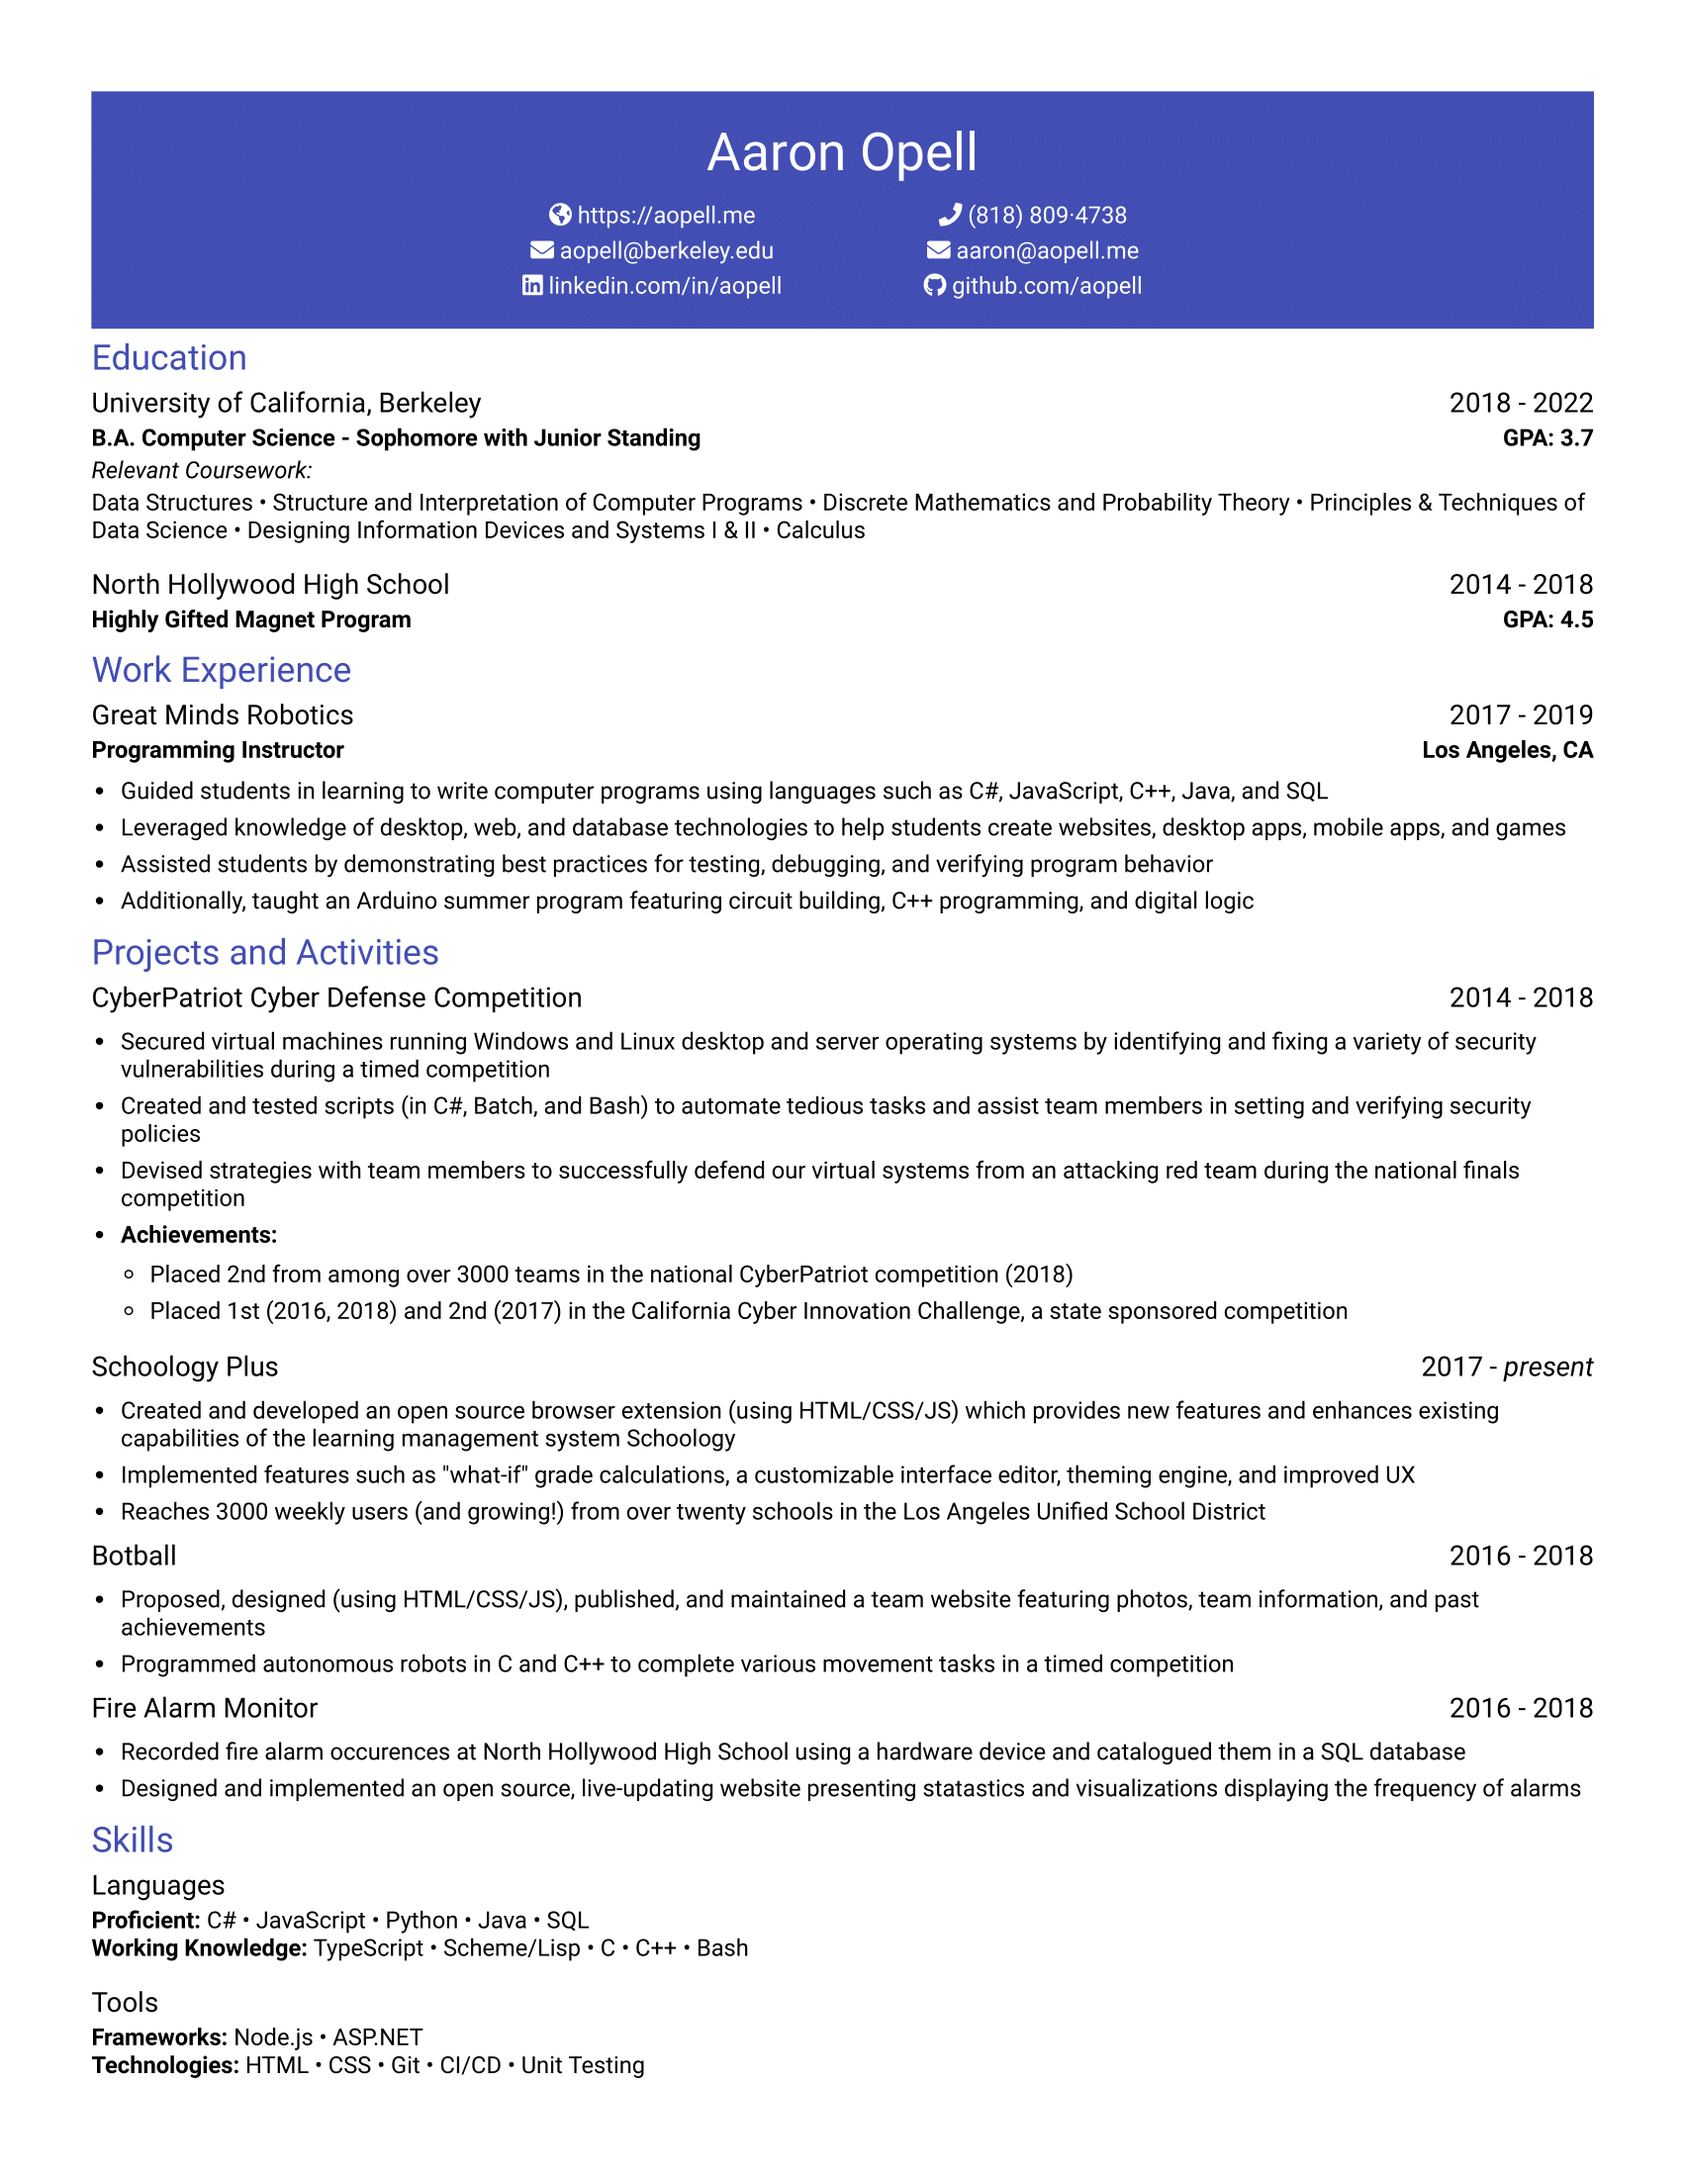
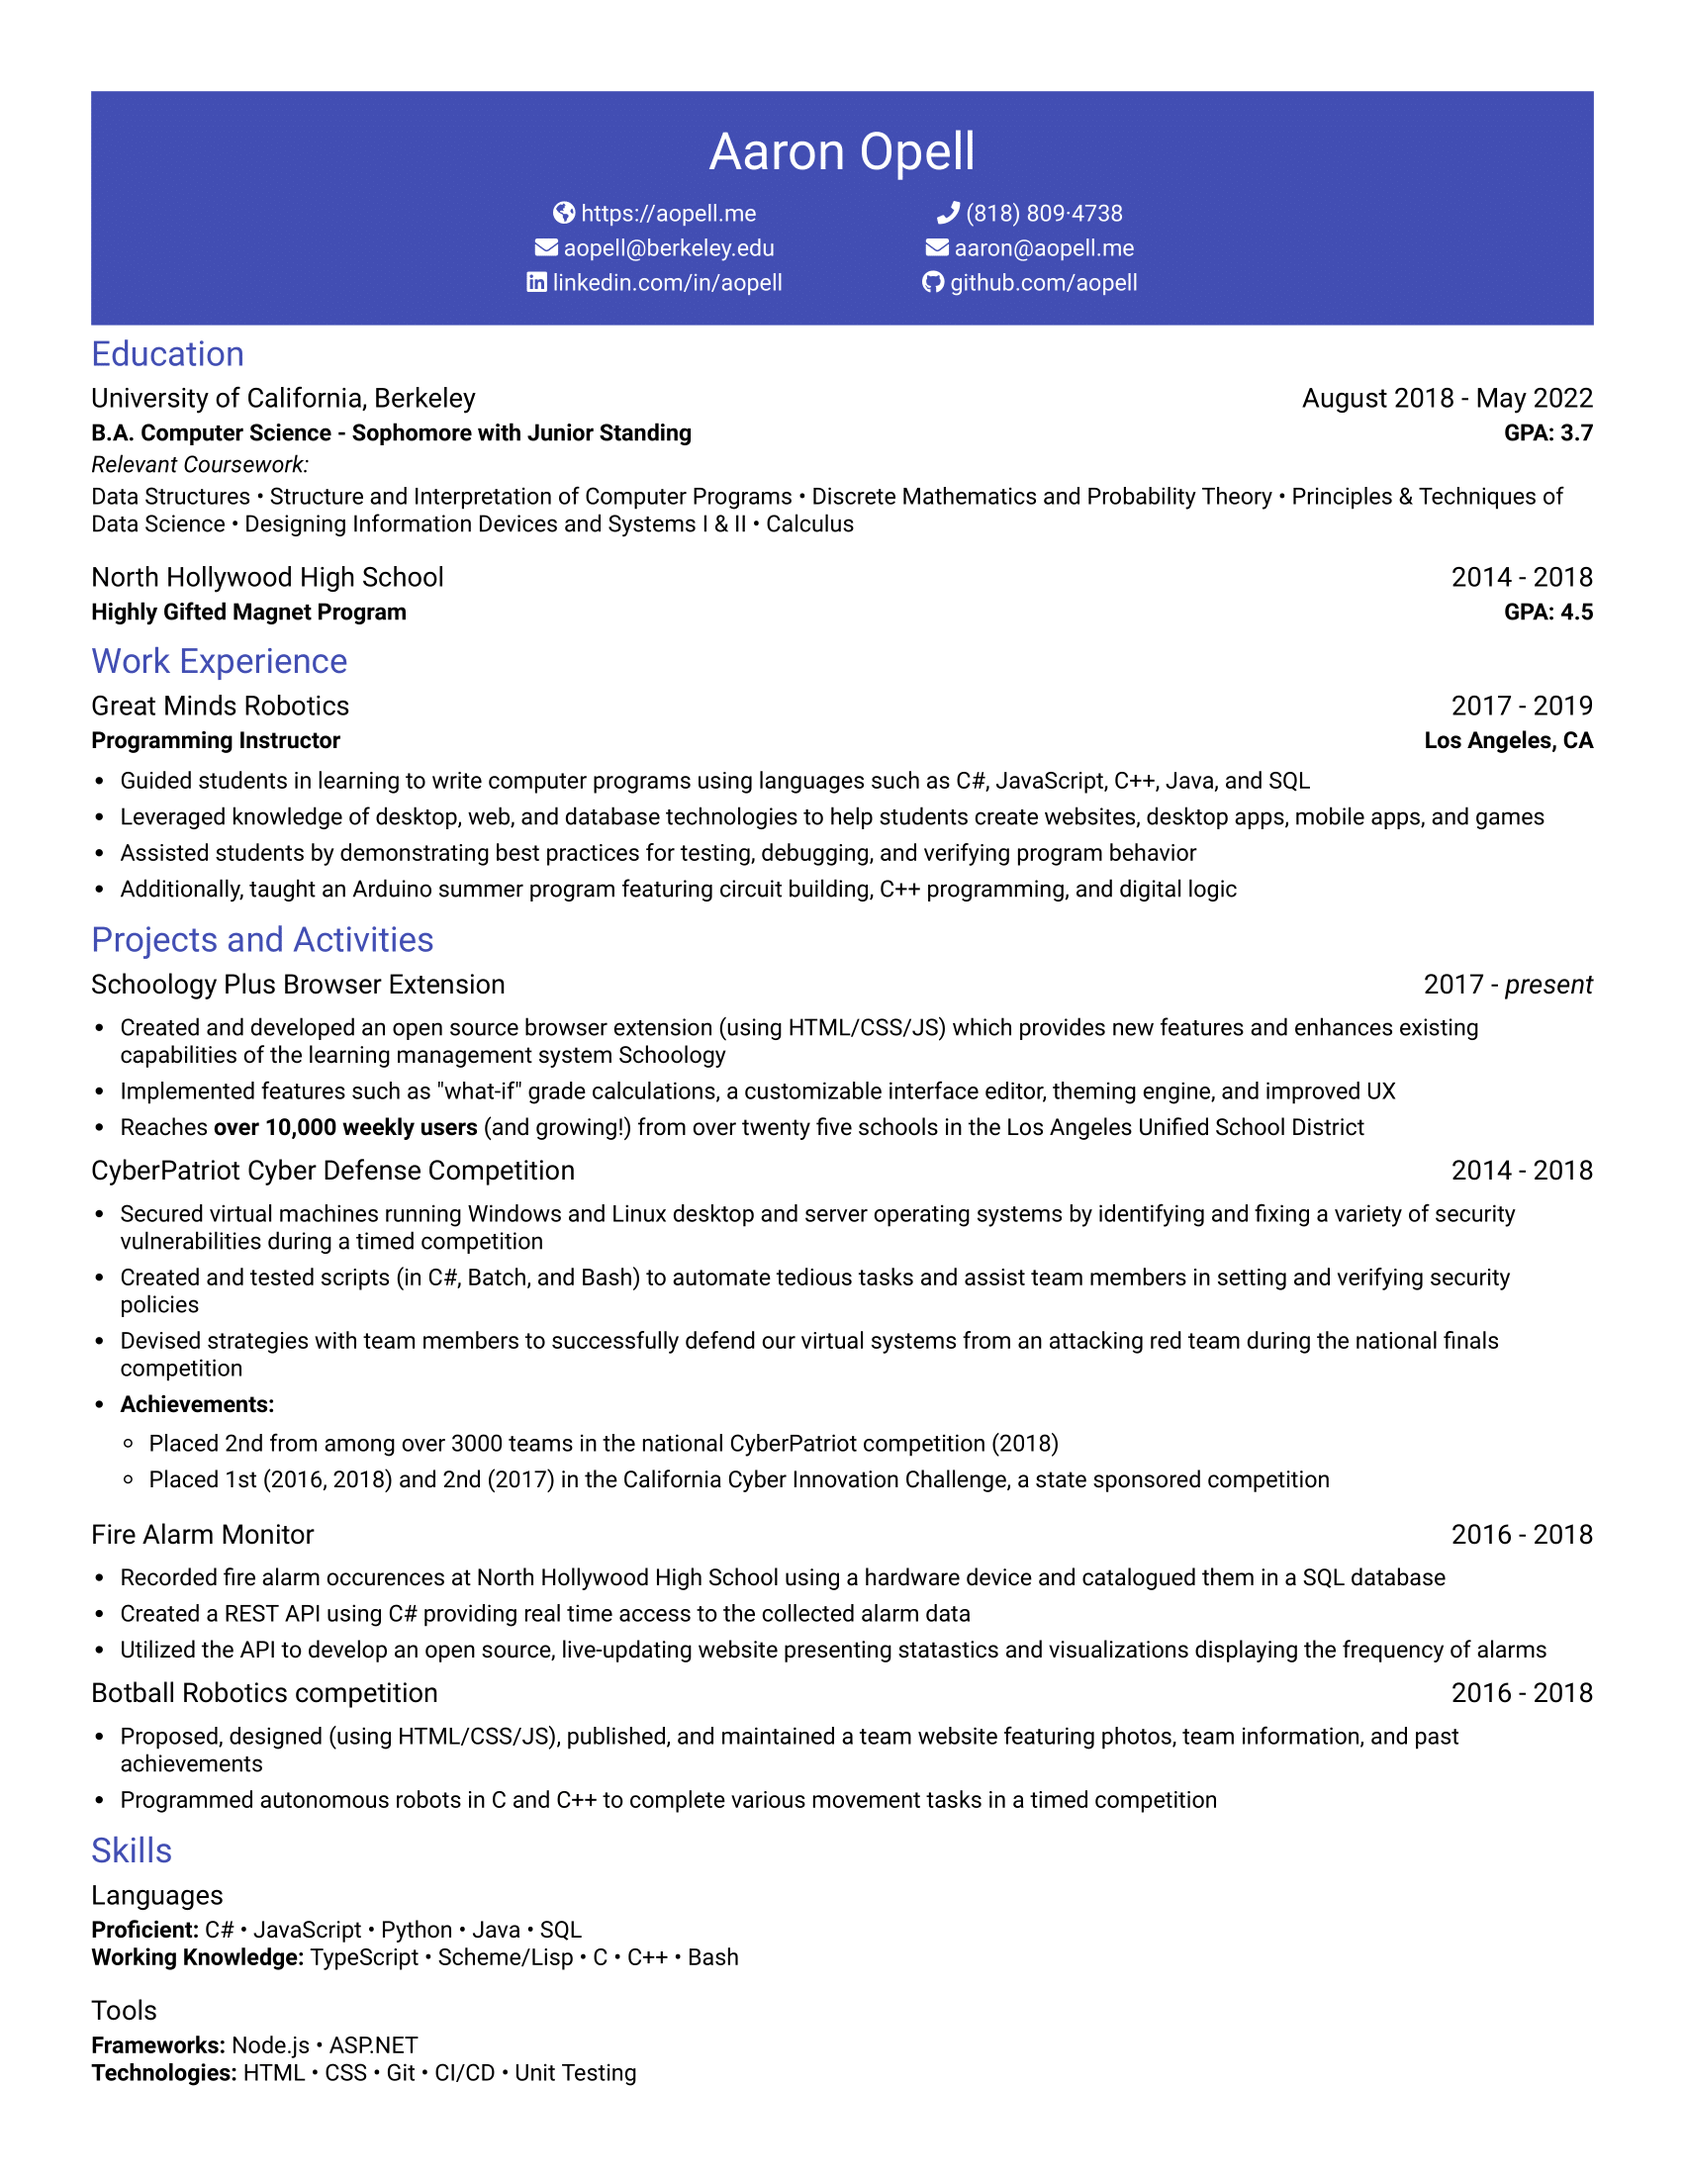
Updated resume

diff --git a/resume/resume.html b/resume/resume.html
@@ -30,7 +30,7 @@
             <div class="item">
                 <h3 class="sides">
                     <span>University of California, Berkeley</span>
-                    <span>2018 - 2022</span>
+                    <span>August 2018 - May 2022</span>
                 </h3>
                 <b class="sides">
                     <span>B.A. Computer Science - Sophomore with Junior Standing</span>
@@ -85,6 +85,23 @@
             <h2 id="projects-and-activities">Projects and Activities</h2>
             <div class="item">
                 <h3 class="sides">
+                    <span>Schoology Plus Browser Extension</span>
+                    <span>2017 - <i>present</i></span>
+                </h3>
+                <ul>
+                    <li>Created and developed an open source browser extension (using HTML/CSS/JS) which provides new
+                        features and enhances
+                        existing capabilities of the learning management system Schoology</li>
+                    <li>Implemented features such as "what-if" grade calculations, a customizable interface editor,
+                        theming engine, and improved UX</li>
+                    <li>Reaches <strong>over 10,000 weekly users</strong> (and growing!) from over twenty five schools
+                        in the Los Angeles Unified
+                        School
+                        District</li>
+                </ul>
+            </div>
+            <div class="item">
+                <h3 class="sides">
                     <span>CyberPatriot Cyber Defense Competition</span>
                     <span>2014 - 2018</span>
                 </h3>
@@ -111,23 +128,20 @@
             </div>
             <div class="item">
                 <h3 class="sides">
-                    <span>Schoology Plus</span>
-                    <span>2017 - <i>present</i></span>
+                    <span>Fire Alarm Monitor</span>
+                    <span>2016 - 2018</span>
                 </h3>
                 <ul>
-                    <li>Created and developed an open source browser extension (using HTML/CSS/JS) which provides new
-                        features and enhances
-                        existing capabilities of the learning management system Schoology</li>
-                    <li>Implemented features such as "what-if" grade calculations, a customizable interface editor,
-                        theming engine, and improved UX</li>
-                    <li>Reaches 10,000 weekly users (and growing!) from over twenty schools in the Los Angeles Unified
-                        School
-                        District</li>
+                    <li>Recorded fire alarm occurences at North Hollywood High School using a hardware device and
+                        catalogued them in a SQL database</li>
+                    <li>Created a REST API using C# providing real time access to the collected alarm data</li>
+                    <li>Utilized the API to develop an open source, live-updating website presenting statastics and
+                        visualizations displaying the frequency of alarms</li>
                 </ul>
             </div>
             <div class="item">
                 <h3 class="sides">
-                    <span>Botball</span>
+                    <span>Botball Robotics competition</span>
                     <span>2016 - 2018</span>
                 </h3>
                 <ul>
@@ -137,21 +151,6 @@
                         past achievements</li>
                     <li>Programmed autonomous robots in C and C++ to complete various movement tasks in a timed
                         competition</li>
-                </ul>
-            </div>
-            <div class="item">
-                <h3 class="sides">
-                    <span>Fire Alarm Monitor</span>
-                    <span>2016 - 2018</span>
-                </h3>
-                <ul>
-                    <li>Recorded fire alarm occurences at North Hollywood High School using a hardware device and
-                        catalogued
-                        them in a SQL database</li>
-                    <li>Designed and implemented an open source, live-updating website presenting statastics and
-                        visualizations displaying
-                        the
-                        frequency of alarms</li>
                 </ul>
             </div>
         </div>
